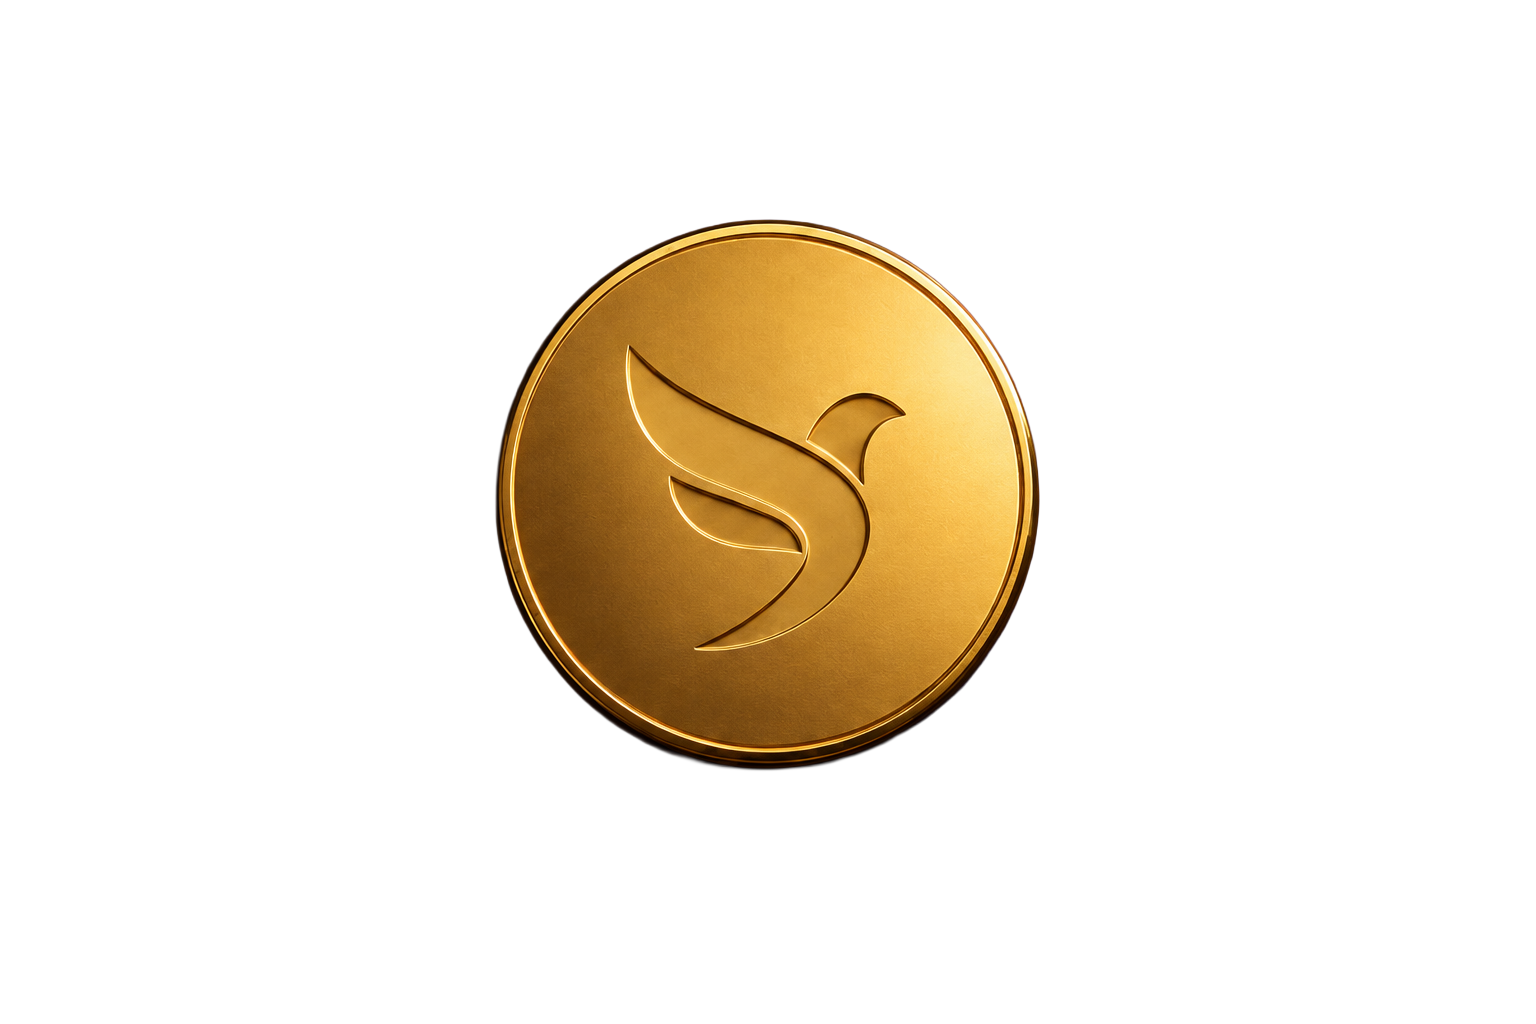
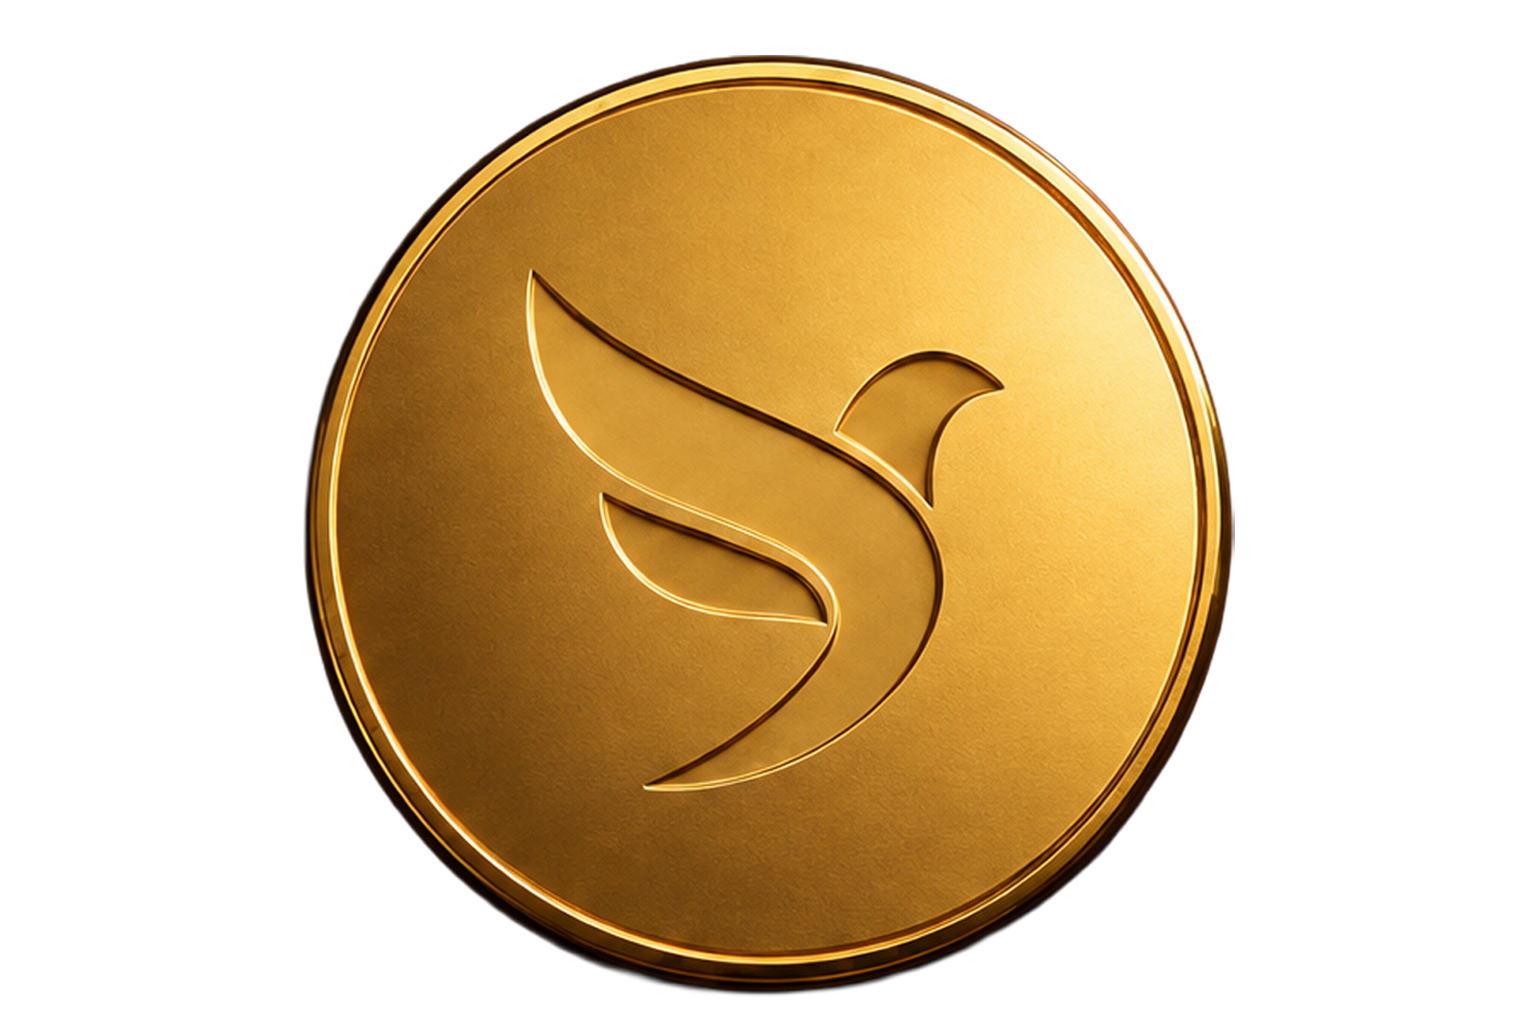
Wire real social assets into Stories & Reels slide (s-35)
- Renamed user-supplied files for URL-safety:
    A weekend in.png        → social-marrakech.png
    cinematic reel sadin.mp4 → social-reel.mp4
    omraah.jpg              → social-omrah.jpg
    Tunis → Istanbul.jpg    → social-itinerary.jpg

- Stories now load their real photo / video instead of CSS gradients:
    s1 · A weekend in Marrakech — social-marrakech.png as full-bleed bg
    s2 · Reel · cinematic — embedded <video autoplay muted loop playsinline>
         playing social-reel.mp4 behind the copy overlay
    s3 · Omrah · 2026 season — social-omrah.jpg as full-bleed bg
         (was the gold "The trip is ready" quote tile; repurposed to
         showcase pilgrimage offering with new copy)
    s4 · Tunis → Istanbul itinerary — social-itinerary.jpg as full-bleed bg

- Added a ::before dark-fade overlay on every story so the top eyebrow
  and bottom CTA stay legible against the photography / video.

- i18n.js: added FR translations for "Story · Pilgrimage",
  "Omrah · 2026 season.", and "Book with us" so the toggle still
  translates this slide cleanly.

diff --git a/sadine-brand/index.html b/sadine-brand/index.html
@@ -604,10 +604,20 @@ body[data-lang="fr"] .lang-fr{display:inline}
   display:flex;flex-direction:column;justify-content:space-between;padding:24px;color:var(--soft);
   position:relative;
 }
-.stories .s1{background:radial-gradient(60% 50% at 50% 30%, rgba(245,185,66,.5) 0%, transparent 60%),linear-gradient(180deg, #0a0418 0%, #4B2E83 100%)}
-.stories .s2{background:linear-gradient(180deg, #1a0a36 0%, #C77B3A 100%)}
-.stories .s3{background:var(--purple)}
-.stories .s4{background:linear-gradient(180deg, #2A124F 0%, #7B5BCE 100%)}
+/* Stories — full-bleed photo / video with a darker gradient overlay for text legibility */
+.stories .story{background-color:#15082B;background-size:cover;background-position:center}
+.stories .story::before{
+  content:"";position:absolute;inset:0;pointer-events:none;z-index:1;
+  background:linear-gradient(180deg, rgba(15,5,33,.55) 0%, rgba(15,5,33,0) 25%, rgba(15,5,33,0) 55%, rgba(15,5,33,.78) 100%);
+}
+.stories .story > *{position:relative;z-index:2}
+.stories .s1{background-image:url('assets/social-marrakech.png')}
+.stories .s2{background:#0a0418}
+.stories .s2 .reel-video{
+  position:absolute;inset:0;width:100%;height:100%;object-fit:cover;z-index:0;
+}
+.stories .s3{background-image:url('assets/social-omrah.jpg')}
+.stories .s4{background-image:url('assets/social-itinerary.jpg')}
 .stories .story .top{font-family:var(--display);font-weight:500;font-size:10px;letter-spacing:.32em;text-transform:uppercase;opacity:.85}
 .stories .story .copy{font-family:var(--display);font-weight:700;font-size:24px;line-height:1.15}
 .stories .story .bot{display:flex;justify-content:space-between;align-items:center;font-family:var(--display);font-size:10px;letter-spacing:.3em;text-transform:uppercase;opacity:.85}
@@ -2492,14 +2502,15 @@ html,body{overflow-x:hidden}
         <div class="bot"><span>Plan with us</span><svg class="mark icn icon-gold" viewBox="0 0 74.83 74.1"><use href="#sadine-icon"/></svg></div>
       </div>
       <div class="story s2">
+        <video class="reel-video" src="assets/social-reel.mp4" autoplay muted loop playsinline preload="metadata"></video>
         <span class="top">Reel · cinematic</span>
         <span class="copy">From boarding pass<br/>to last sunset.</span>
         <div class="bot"><span>Sadine</span><svg class="mark icn icon-gold" viewBox="0 0 74.83 74.1"><use href="#sadine-icon"/></svg></div>
       </div>
       <div class="story s3">
-        <span class="top">Quote</span>
-        <span class="copy gold">The trip<br/>is ready.</span>
-        <div class="bot"><span>—</span><svg class="mark icn icon-gold" viewBox="0 0 74.83 74.1"><use href="#sadine-icon"/></svg></div>
+        <span class="top">Story · Pilgrimage</span>
+        <span class="copy">Omrah ·<br/>2026 season.</span>
+        <div class="bot"><span>Book with us</span><svg class="mark icn icon-gold" viewBox="0 0 74.83 74.1"><use href="#sadine-icon"/></svg></div>
       </div>
       <div class="story s4">
         <span class="top">Itinerary teaser</span>

diff --git a/sadine-brand/assets/i18n.js b/sadine-brand/assets/i18n.js
@@ -518,8 +518,12 @@ window.SADINE_I18N = {
       "Ouvrez sur du mouvement. Accrochez dans les 1,2 s. Concluez sur l'oiseau, tenu sur Sadine Purple 0,6 s.",
     "Story · 01 / 04": "Story · 01 / 04",
     "Reel · cinematic": "Reel · cinématique",
+    "Story · Pilgrimage": "Story · Pèlerinage",
     "Quote": "Citation",
     "Itinerary teaser": "Aperçu d'itinéraire",
+    "Omrah ·\n2026 season.": "Omra ·\nSaison 2026.",
+    "Omrah · 2026 season.": "Omra · Saison 2026.",
+    "Book with us": "Réservez avec nous",
     "A weekend in\nMarrakech.": "Un week-end à\nMarrakech.",
     "From boarding pass\nto last sunset.": "De la carte d'embarquement\nau dernier coucher de soleil.",
     "The trip\nis ready.": "Le voyage\nest prêt.",